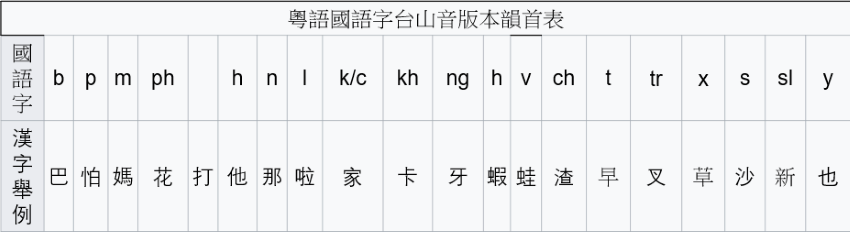
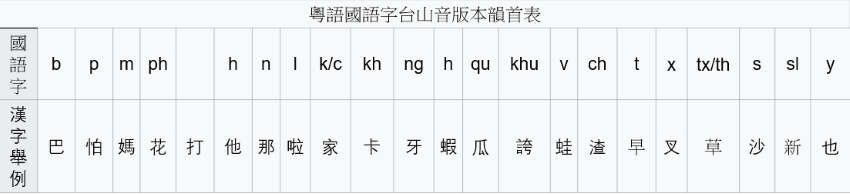
Add files via upload

Changed region(s): [[0.0, 0.0, 1.0, 1.0]]

diff --git a/experimental/h/hoisan/source/welcome.htm b/experimental/h/hoisan/source/welcome.htm
@@ -154,7 +154,7 @@
     <td>4 (low falling)</td>
     <td>f</td>
     <td>tra<strong>f</strong></td>
-    <td>trà茶
+    <td>xà茶
     </td></tr>
   <tr>
     <td>5 (low rising)</td>
@@ -216,8 +216,8 @@
 <p>範文：南國山河 Nàm Coc Sán Hò<p>
 <p>南國山河南帝居 Nàm Coc Sán Hò Nàm Ái Cúi<p>
 <p>截然定分在天書 Tiệt Ngình Ịnh Phốn Tọi Hính Sí<p>
-<p>如何逆虜來侵犯 Ngùi Hò Ngịch Lũ Lòi Xấm Phạn<p>
-<p>汝等行看取敗虛 Nỹ Ảnh Hành Hón Xủi Bại Húi<p>
+<p>如何逆虜來侵犯 Ngùi Hò Ngịch Lũ Lòi Txấm Phạn<p>
+<p>汝等行看取敗虛 Nỹ Ảnh Hành Hón Txủi Bại Húi<p>
 
 <p>© cathaylab</p>
 

diff --git a/experimental/h/hoisan/source/help/hoisan.php b/experimental/h/hoisan/source/help/hoisan.php
@@ -1,19 +1,22 @@
 <?php 
   $pagename = 'hoisan Keyboard Help';
   $pagetitle = $pagename;
+  // Header we will tidy up later  
   require_once('header.php');
+
 
 ?>
 <p>
   hoisan for Hòi Sán Vạ Coc Ngũi Tụ (Hoisanese). 
-</p>
+<p>
   <p>the Script of National Language for Hoisanese台山話國語字</p>
- <p> 台山話國語字係一種羅馬化嘅粵語文字 </p>
-    <p> Hòi Sán Vạ Coc Ngũi Tụ hại yât chủng Lò-Mã phá ké Oạt Ngũi mồn tụ. </p>
+ <p> 台山話國語字係一種羅馬化嘅粵語文字 <p>
+    <p> Hòi Sán Vạ Coc Ngũi Tụ hại yât chủng Lò-Mã phá ké Oạt Ngũi mồn tụ. <p>
+<p>
 
 <h1>音韻表 phonologic map</h1>
-<p> 建議以下嘅台山話國語字音韻表打字</p>
-<p> The suggested form of spelling of the Script of National Language for Hoisanese</p>
+<p> 建議以下嘅台山話國語字音韻表打字<p>
+<p> The suggested form of spelling of the Script of National Language for Hoisanese<p></p>
 
 <h1>韻首consonants</h1>
 <img src='consonants.png' alt='Keyboard Layout'>
@@ -30,7 +33,7 @@
 <h1>韻腹vowels</h1>
 <img src='vowels.png' alt='Keyboard Layout'>
 <p>如果韻腹i單獨出現，音調係陰聲í ỉ，頭先嘅韻首係y，咁韻首y可以俾省略</p>
-<p>If vowel "i" appear alone, the tone is a high tone, such as "í" or "ỉ", and the consonant is "y", then the consonant "y" can be omitted.</p>
+<p>If vowel "i" appear alone, the tone is a high tone, such as "í" or "ỉ", and the consonant is "y", then the consonant "y" can be omitted.
 <p>喺台山話國語字系統入面，使用正寫"iêng"同韻腹"ênh"嘅作用一樣，正寫"iêc"同韻腹"êc"嘅作用一樣</p>
  <p>In the Hoisanese National Language system, the spelling "iêng" has the same effect with "ênh" sound, the spelling "iêc" has the same effect with "êc" sound</p>
  <p>使用正寫"im"同韻腹"âm"嘅作用一樣，正寫"in"同韻腹"ân"嘅作用一樣，正寫"iu"同韻腹"ưu"嘅作用一樣</p>
@@ -41,7 +44,10 @@
  <p>the spelling "ôi" has the same effect with "ui" sound</p>
 <h1>音調tones</h1>
 <img src='tones.png' alt='Keyboard Layout'>
-<p>Specific Alphabet: 特別字母</p>
+
+
+</p>
+<p>Specific Alphabet: 特別字母<p>
 <table>
 <tbody>
 <tr>
@@ -82,9 +88,9 @@
 </tbody>
 </table>
 
-<p>tone rules: 音調規則</p>
-<p> 對應粵拼嘅第一聲同第三聲打s，第二聲打r， 第四聲打f，第五聲打x，第六聲打j </p>p>
-<p> tone 2 = r, tone 1 and tone 3 = s, tone 4 = f, tone 5 = x, tone 6 = j </p>p>
+<p>tone rules: 音調規則<p>
+<p> 對應粵拼嘅第一聲同第三聲打s，第二聲打r， 第四聲打f，第五聲打x，第六聲打j <p>
+<p> tone 2 = r, tone 1 and tone 3 = s, tone 4 = f, tone 5 = x, tone 6 = j <p>
 <h2>Tonal diacritics</h2>
 
 <table>
@@ -120,7 +126,7 @@
     <td>4 (low falling)</td>
     <td>f</td>
     <td>tra<strong>f</strong></td>
-    <td>trà茶
+    <td>xà茶
     </td></tr>
   <tr>
     <td>5 (low rising)</td>
@@ -160,18 +166,18 @@
 </tbody>
 </table>
 
-<p>examples: 舉例： </p>
+<p>examples: 舉例： <p>
 <p> ar > ả, as > á, af > à, ax > ã, aj > ạ <p>
-<p> 譬如話：‘兩’ 嘅羅馬字係‘lểnh’， 咁輸入內容就係‘leenhr’</p>
+<p> 譬如話：‘兩’ 嘅羅馬字係‘lểnh’， 咁輸入內容就係‘leenhr’<p>
 
 
-<p> 雙擊音調鍵同特殊轉化鍵，取消轉化，變返原本嘅拼寫 </p>
-<p> doubletaping leads to generate original letters:  </p>
+<p> 雙擊音調鍵同特殊轉化鍵，取消轉化，變返原本嘅拼寫 <p>
+<p> doubletaping leads to generate original letters:  <p>
   <p>
     If more than one tone marking key is pressed, the last one will be used. For example, typing <code>asf</code> will return "à". To write a tone marking key as a normal character, one has to press it twice: <code>her</code> becomes <code>hẻ</code>, while <code>herr</code> becomes <code>her</code>.
   </p>
-<p> 使用Z鍵取消音調轉換 </p>
-<p> tap Z key to remove tonations  
+<p> 使用Z鍵取消音調轉換 <p>
+<p> tap Z key to remove tonations  <p>
 
 
 <a href="https://github.com/Cathaylaboratory/quokyuzi/blob/main/quocnguytihoisanva.dict.yaml">台山話國語字字典dictionary for Hoisanese Coc Ngũy Tụ</a>
@@ -179,10 +185,10 @@
 <!-- <p>See <a href="file:taigi_poj.pdf">this document</a> for all the key combinations.</p> -->
 
 
-<p>範文：南國山河 Nàm Coc Sán Hò</p>
-<p>南國山河南帝居 Nàm Coc Sán Hò Nàm Ái Cúi</p>
-<p>截然定分在天書 Tiệt Ngình Ịnh Phốn Tọi Hính Sí</p>
-<p>如何逆虜來侵犯 Ngùi Hò Ngịch Lũ Lòi Xấm Phạn</p>
-<p>汝等行看取敗虛 Nỹ Ảnh Hành Hón Xủi Bại Húi</p>
+<p>範文：南國山河 Nàm Coc Sán Hò<p>
+<p>南國山河南帝居 Nàm Coc Sán Hò Nàm Ái Cúi<p>
+<p>截然定分在天書 Tiệt Ngình Ịnh Phốn Tọi Hính Sí<p>
+<p>如何逆虜來侵犯 Ngùi Hò Ngịch Lũ Lòi Txấm Phạn<p>
+<p>汝等行看取敗虛 Nỹ Ảnh Hành Hón Txủi Bại Húi<p>
 
 <p>© cathaylab</p>

diff --git a/experimental/h/hoisan/HISTORY.md b/experimental/h/hoisan/HISTORY.md
@@ -1,6 +1,11 @@
 Hoisan Change History
 ====================
 
+2.1 (2025-12-09)
+----------------
+* Updated by cathaylab
+* use "tx" and "th" consonant to replace the former "x" consonant, use "x" consonant to replace former "tr" consonant
+
 2.0 (2025-09-29)
 ----------------
 * Updated by cathaylab
